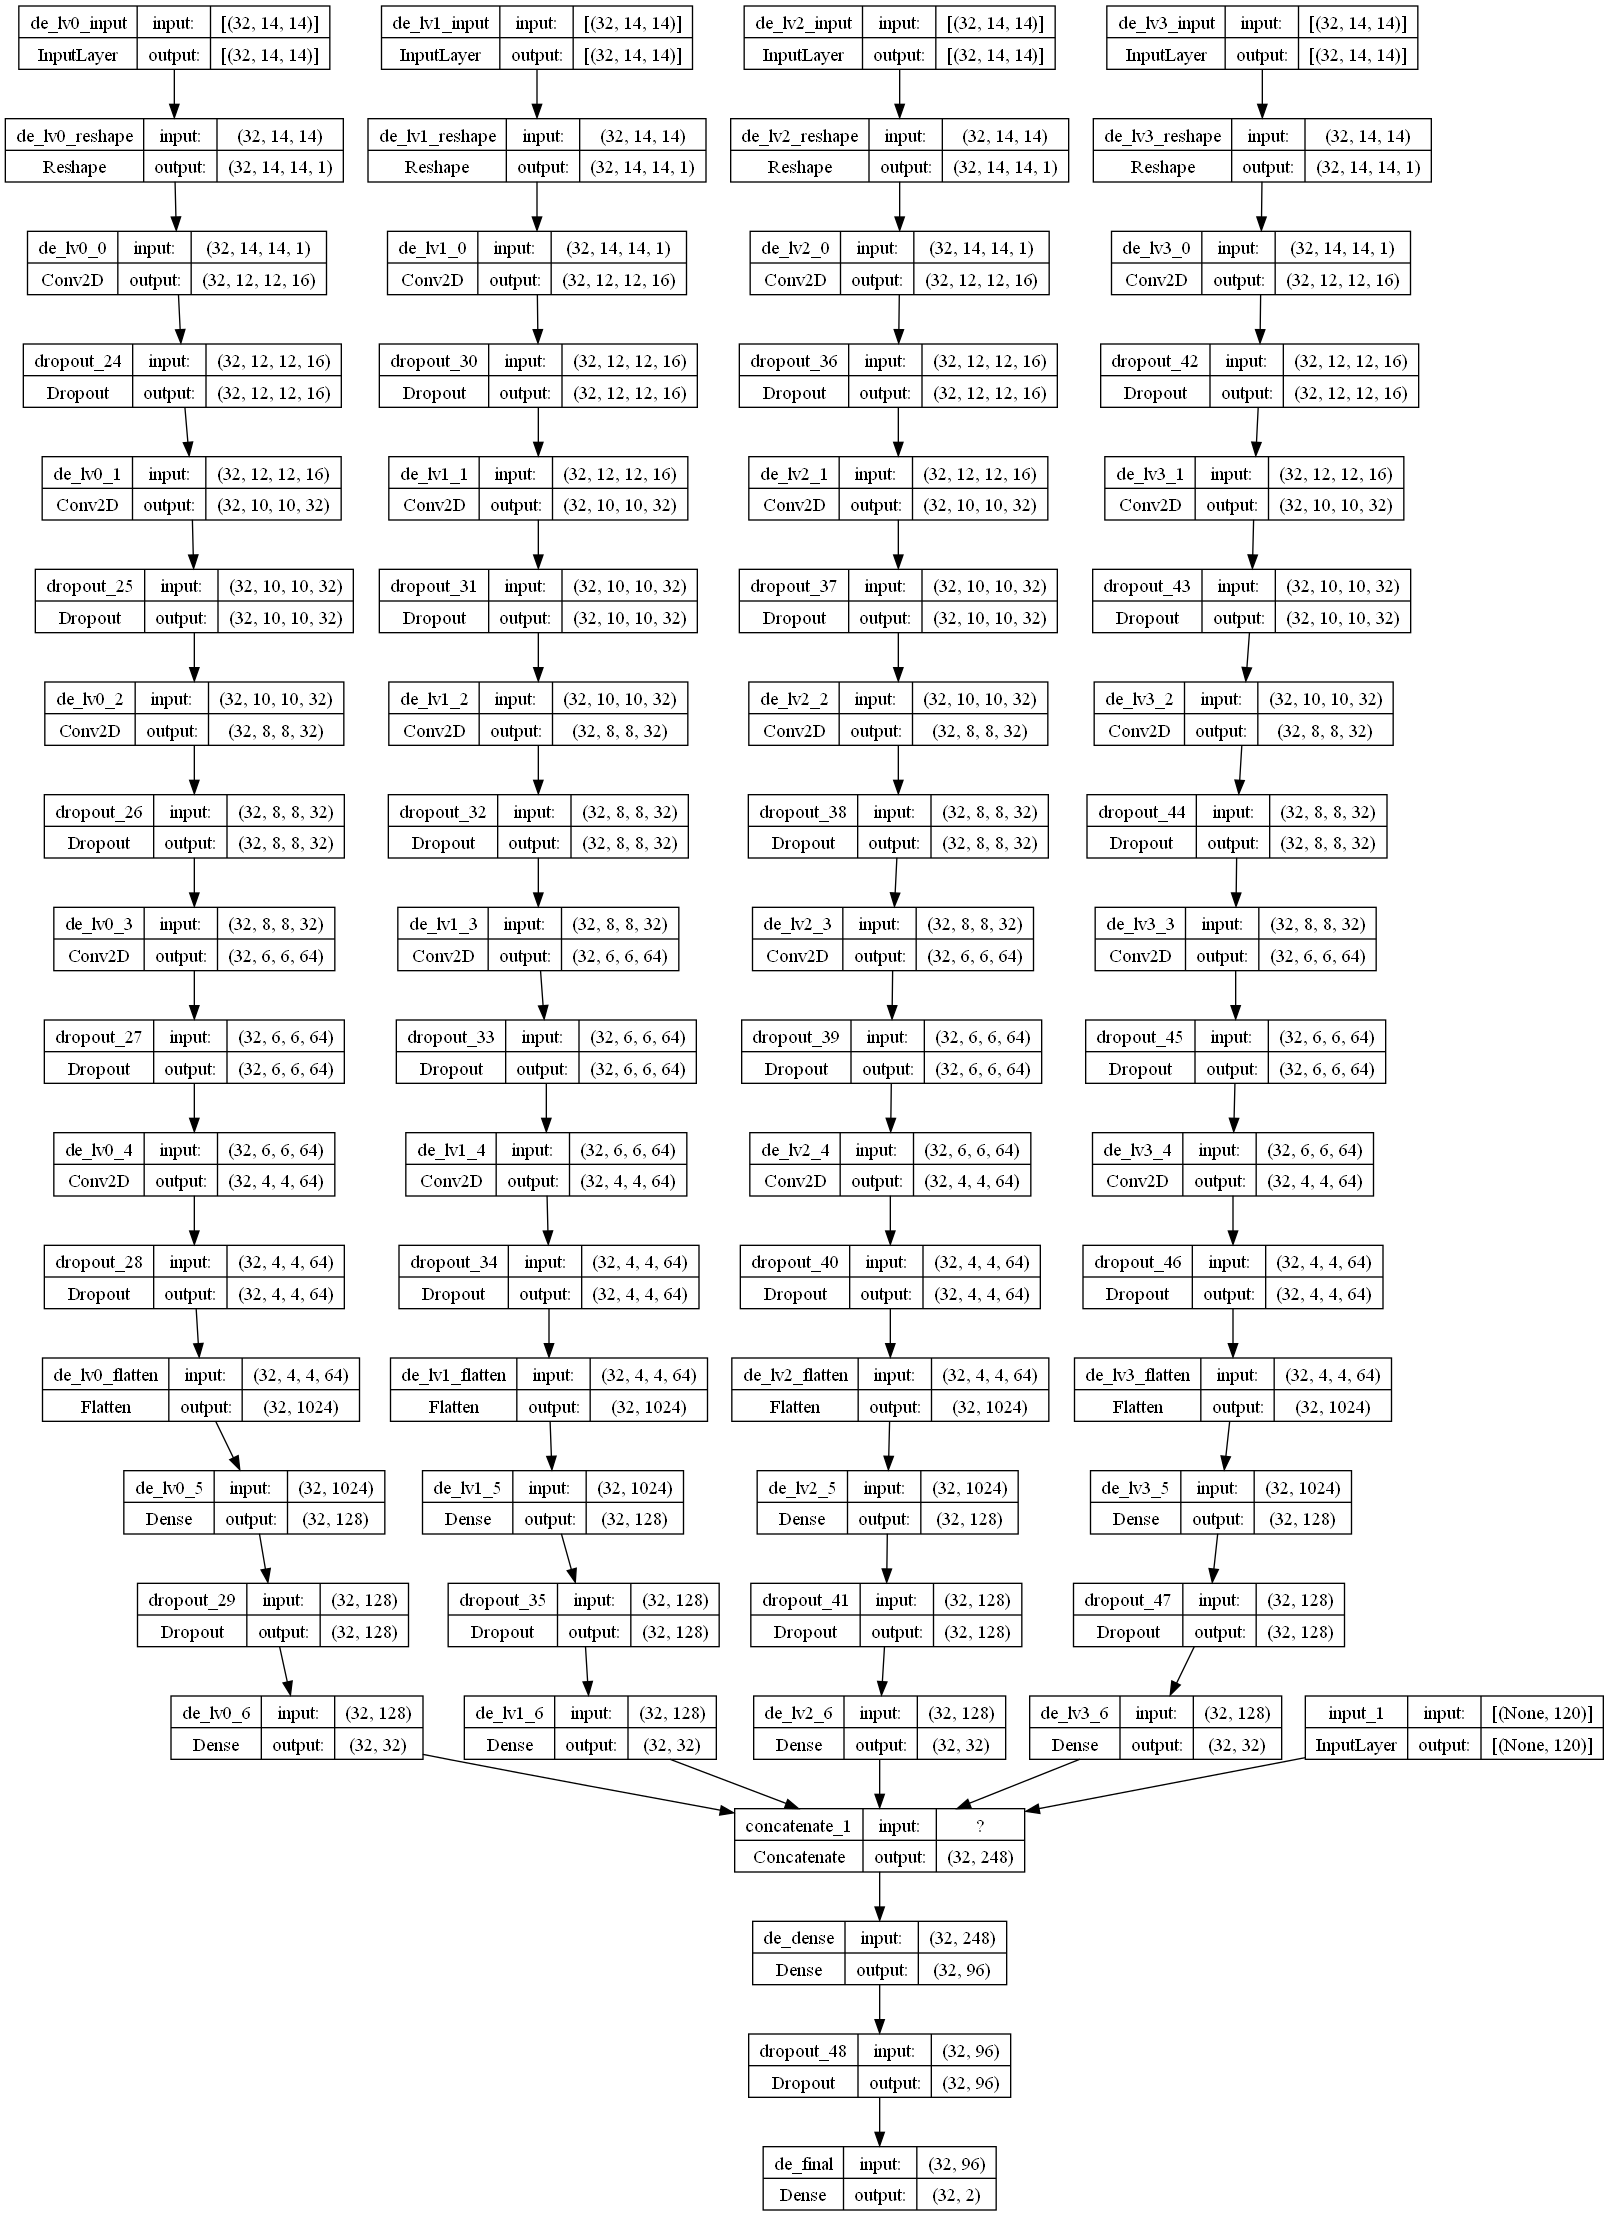
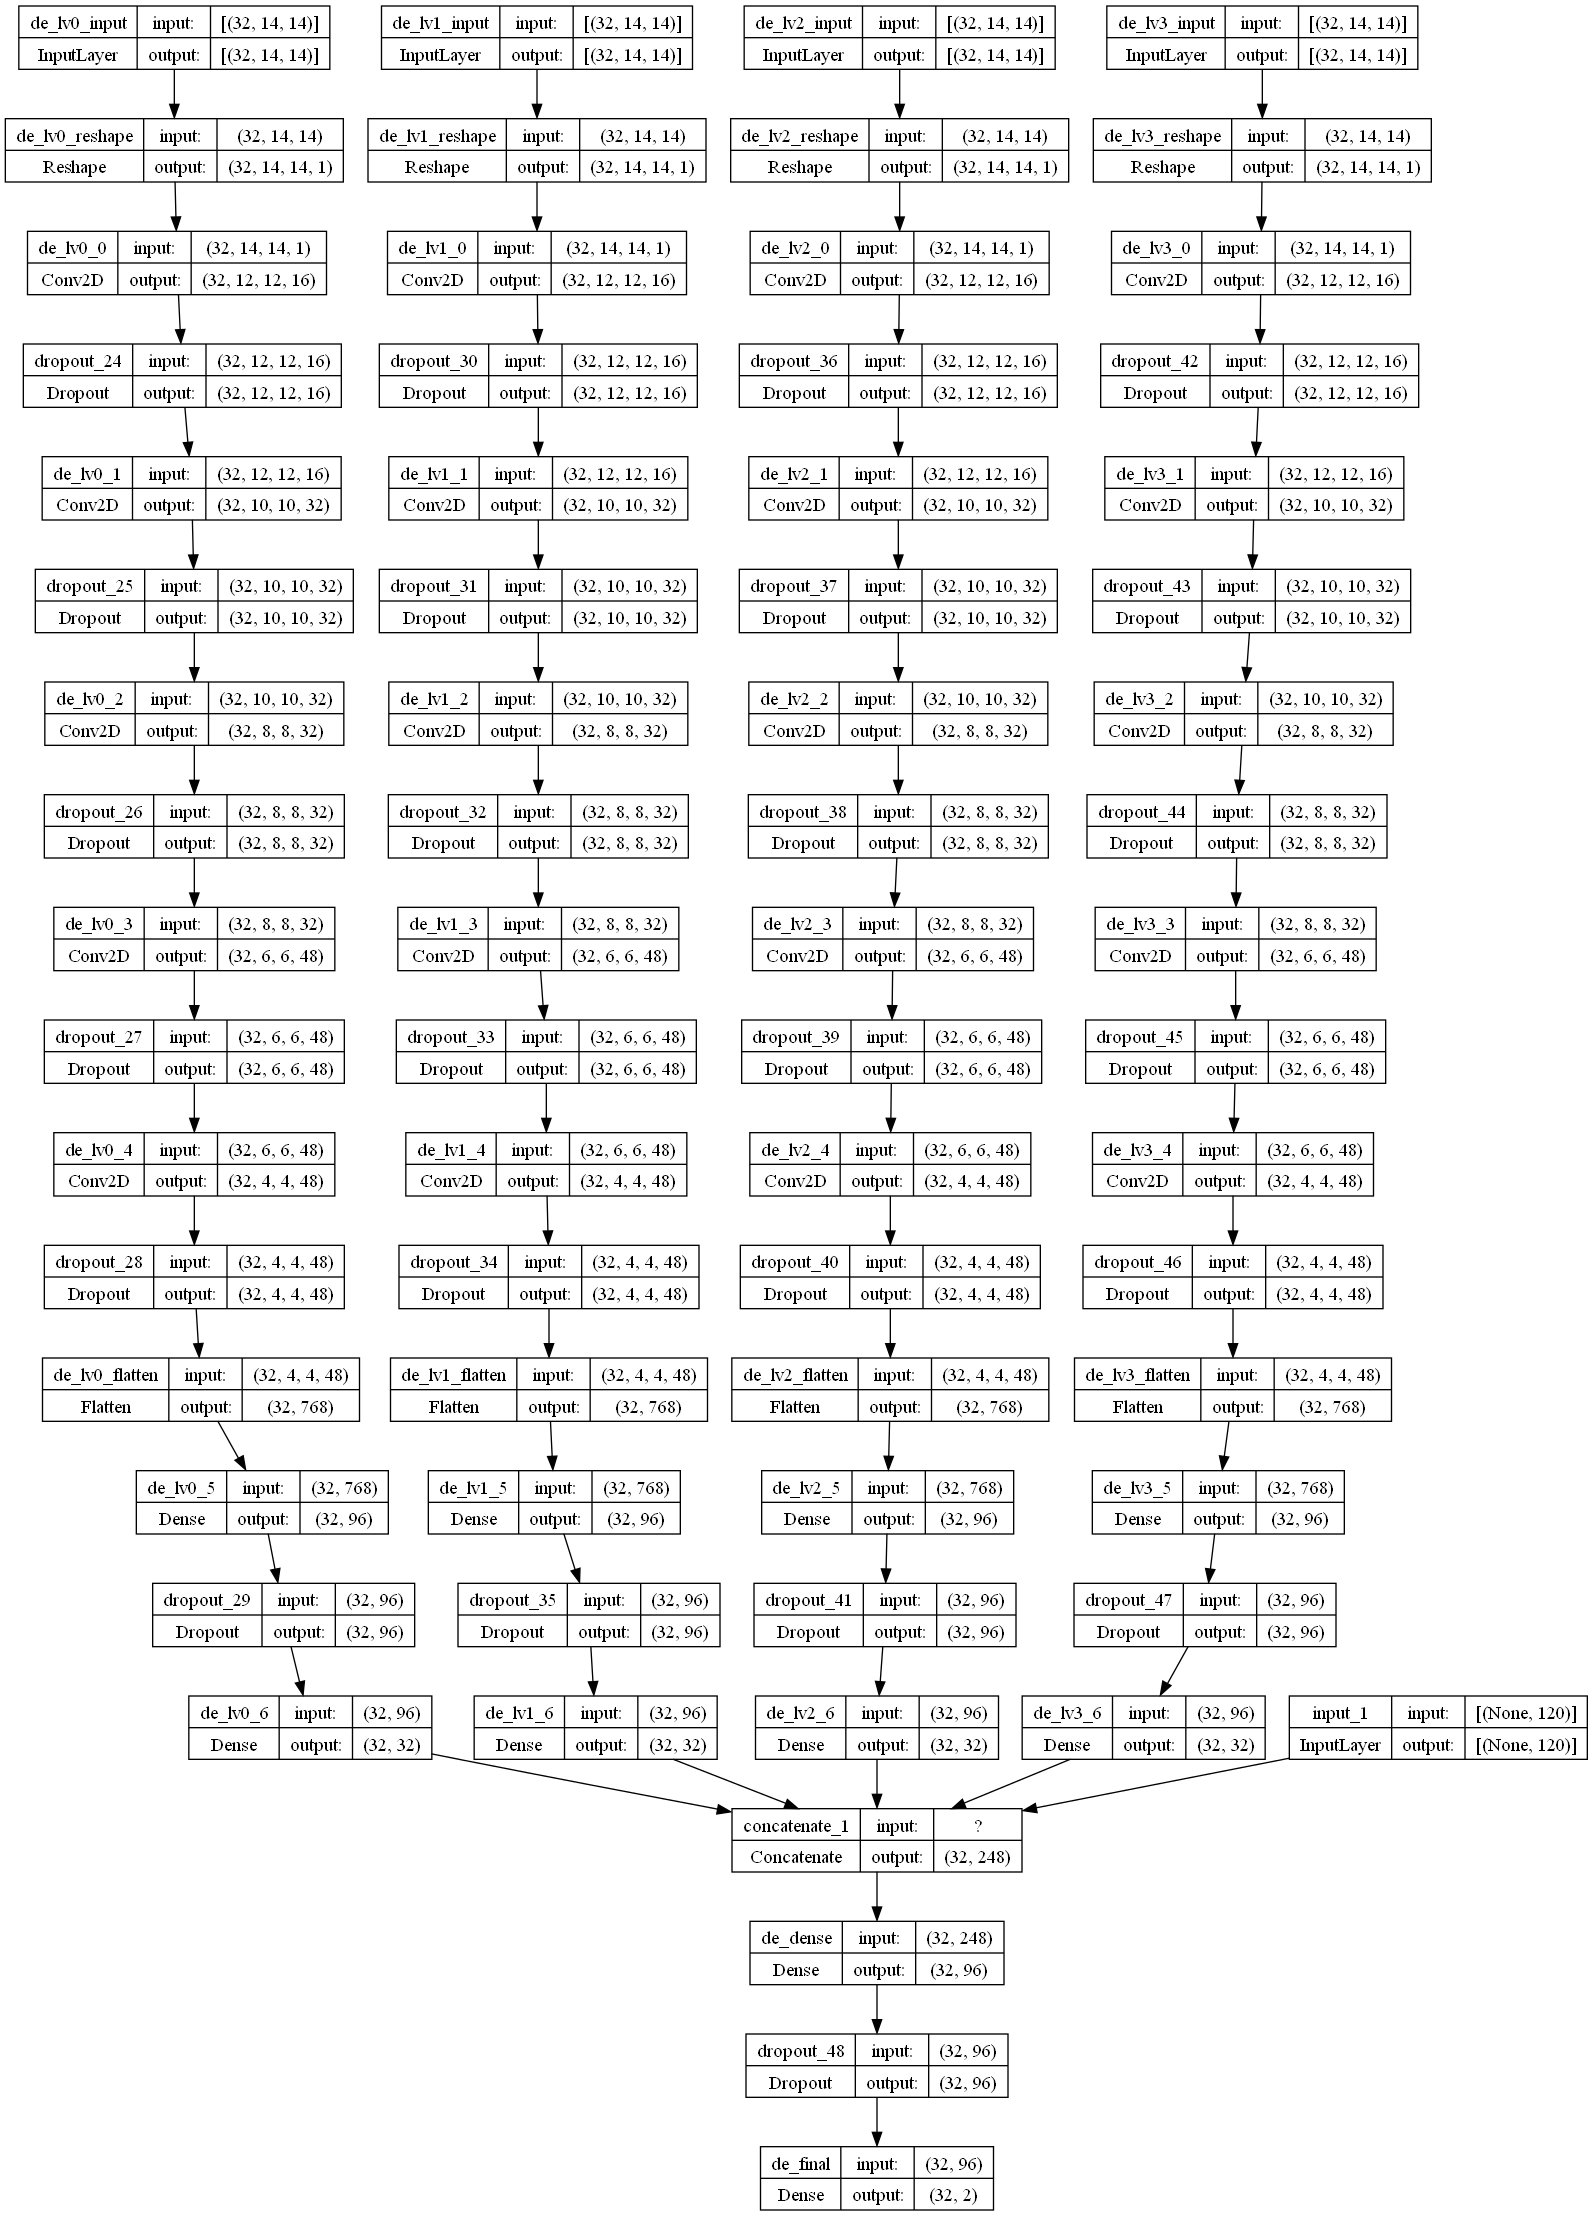
test: add Gaussian blur to test image

Changed region(s): [[0.0308, 0.0, 0.892, 0.9964], [0.892, 0.7473, 0.9228, 0.8096], [0.0308, 0.0623, 0.0615, 0.0934]]

diff --git a/Image Processing/Project 003. 흑백 이미지 컬러화 (생성형 AI 적용)/train.py b/Image Processing/Project 003. 흑백 이미지 컬러화 (생성형 AI 적용)/train.py
@@ -57,40 +57,40 @@ class Main_Model:
         self.encoder_lvl0_0 = layers.Conv2D(16, (3, 3), activation='relu', kernel_regularizer=L2, name='en_lv0_0')
         self.encoder_lvl0_1 = layers.Conv2D(32, (3, 3), activation='relu', kernel_regularizer=L2, name='en_lv0_1')
         self.encoder_lvl0_2 = layers.Conv2D(32, (3, 3), activation='relu', kernel_regularizer=L2, name='en_lv0_2')
-        self.encoder_lvl0_3 = layers.Conv2D(64, (3, 3), activation='relu', kernel_regularizer=L2, name='en_lv0_3')
-        self.encoder_lvl0_4 = layers.Conv2D(64, (3, 3), activation='relu', kernel_regularizer=L2, name='en_lv0_4')
+        self.encoder_lvl0_3 = layers.Conv2D(48, (3, 3), activation='relu', kernel_regularizer=L2, name='en_lv0_3')
+        self.encoder_lvl0_4 = layers.Conv2D(48, (3, 3), activation='relu', kernel_regularizer=L2, name='en_lv0_4')
 
-        self.encoder_lvl0_5 = layers.Dense(128, activation='relu', name='en_lv0_5')
+        self.encoder_lvl0_5 = layers.Dense(96, activation='relu', name='en_lv0_5')
         self.encoder_lvl0_6 = layers.Dense(32, activation='relu', name='en_lv0_6')
         
         # level 1 : 주변 56 x 56 영역 (상하좌우 +24 pixels)
         self.encoder_lvl1_0 = layers.Conv2D(16, (3, 3), activation='relu', kernel_regularizer=L2, name='en_lv1_0')
         self.encoder_lvl1_1 = layers.Conv2D(32, (3, 3), activation='relu', kernel_regularizer=L2, name='en_lv1_1')
         self.encoder_lvl1_2 = layers.Conv2D(32, (3, 3), activation='relu', kernel_regularizer=L2, name='en_lv1_2')
-        self.encoder_lvl1_3 = layers.Conv2D(64, (3, 3), activation='relu', kernel_regularizer=L2, name='en_lv1_3')
-        self.encoder_lvl1_4 = layers.Conv2D(64, (3, 3), activation='relu', kernel_regularizer=L2, name='en_lv1_4')
+        self.encoder_lvl1_3 = layers.Conv2D(48, (3, 3), activation='relu', kernel_regularizer=L2, name='en_lv1_3')
+        self.encoder_lvl1_4 = layers.Conv2D(48, (3, 3), activation='relu', kernel_regularizer=L2, name='en_lv1_4')
 
-        self.encoder_lvl1_5 = layers.Dense(128, activation='relu', name='en_lv1_5')
+        self.encoder_lvl1_5 = layers.Dense(96, activation='relu', name='en_lv1_5')
         self.encoder_lvl1_6 = layers.Dense(32, activation='relu', name='en_lv1_6')
 
         # level 2 : 주변 28 x 28 영역 (상하좌우 +10 pixels)
         self.encoder_lvl2_0 = layers.Conv2D(16, (3, 3), activation='relu', kernel_regularizer=L2, name='en_lv2_0')
         self.encoder_lvl2_1 = layers.Conv2D(32, (3, 3), activation='relu', kernel_regularizer=L2, name='en_lv2_1')
         self.encoder_lvl2_2 = layers.Conv2D(32, (3, 3), activation='relu', kernel_regularizer=L2, name='en_lv2_2')
-        self.encoder_lvl2_3 = layers.Conv2D(64, (3, 3), activation='relu', kernel_regularizer=L2, name='en_lv2_3')
-        self.encoder_lvl2_4 = layers.Conv2D(64, (3, 3), activation='relu', kernel_regularizer=L2, name='en_lv2_4')
+        self.encoder_lvl2_3 = layers.Conv2D(48, (3, 3), activation='relu', kernel_regularizer=L2, name='en_lv2_3')
+        self.encoder_lvl2_4 = layers.Conv2D(48, (3, 3), activation='relu', kernel_regularizer=L2, name='en_lv2_4')
 
-        self.encoder_lvl2_5 = layers.Dense(128, activation='relu', name='en_lv2_5')
+        self.encoder_lvl2_5 = layers.Dense(96, activation='relu', name='en_lv2_5')
         self.encoder_lvl2_6 = layers.Dense(32, activation='relu', name='en_lv2_6')
 
         # level 3 : 주변 14 x 14 영역 (상하좌우 +3 pixels)
         self.encoder_lvl3_0 = layers.Conv2D(16, (3, 3), activation='relu', kernel_regularizer=L2, name='en_lv3_0')
         self.encoder_lvl3_1 = layers.Conv2D(32, (3, 3), activation='relu', kernel_regularizer=L2, name='en_lv3_1')
         self.encoder_lvl3_2 = layers.Conv2D(32, (3, 3), activation='relu', kernel_regularizer=L2, name='en_lv3_2')
-        self.encoder_lvl3_3 = layers.Conv2D(64, (3, 3), activation='relu', kernel_regularizer=L2, name='en_lv3_3')
-        self.encoder_lvl3_4 = layers.Conv2D(64, (3, 3), activation='relu', kernel_regularizer=L2, name='en_lv3_4')
+        self.encoder_lvl3_3 = layers.Conv2D(48, (3, 3), activation='relu', kernel_regularizer=L2, name='en_lv3_3')
+        self.encoder_lvl3_4 = layers.Conv2D(48, (3, 3), activation='relu', kernel_regularizer=L2, name='en_lv3_4')
 
-        self.encoder_lvl3_5 = layers.Dense(128, activation='relu', name='en_lv3_5')
+        self.encoder_lvl3_5 = layers.Dense(96, activation='relu', name='en_lv3_5')
         self.encoder_lvl3_6 = layers.Dense(32, activation='relu', name='en_lv3_6')
         
         self.encoder_final_dense = layers.Dense(64, activation='relu', name='en_final')
@@ -100,40 +100,40 @@ class Main_Model:
         self.decoder_lvl0_0 = layers.Conv2D(16, (3, 3), activation='relu', kernel_regularizer=L2, name='de_lv0_0')
         self.decoder_lvl0_1 = layers.Conv2D(32, (3, 3), activation='relu', kernel_regularizer=L2, name='de_lv0_1')
         self.decoder_lvl0_2 = layers.Conv2D(32, (3, 3), activation='relu', kernel_regularizer=L2, name='de_lv0_2')
-        self.decoder_lvl0_3 = layers.Conv2D(64, (3, 3), activation='relu', kernel_regularizer=L2, name='de_lv0_3')
-        self.decoder_lvl0_4 = layers.Conv2D(64, (3, 3), activation='relu', kernel_regularizer=L2, name='de_lv0_4')
+        self.decoder_lvl0_3 = layers.Conv2D(48, (3, 3), activation='relu', kernel_regularizer=L2, name='de_lv0_3')
+        self.decoder_lvl0_4 = layers.Conv2D(48, (3, 3), activation='relu', kernel_regularizer=L2, name='de_lv0_4')
 
-        self.decoder_lvl0_5 = layers.Dense(128, activation='relu', name='de_lv0_5')
+        self.decoder_lvl0_5 = layers.Dense(96, activation='relu', name='de_lv0_5')
         self.decoder_lvl0_6 = layers.Dense(32, activation='relu', name='de_lv0_6')
         
         # level 1 : 주변 56 x 56 영역 (상하좌우 +24 pixels)
         self.decoder_lvl1_0 = layers.Conv2D(16, (3, 3), activation='relu', kernel_regularizer=L2, name='de_lv1_0')
         self.decoder_lvl1_1 = layers.Conv2D(32, (3, 3), activation='relu', kernel_regularizer=L2, name='de_lv1_1')
         self.decoder_lvl1_2 = layers.Conv2D(32, (3, 3), activation='relu', kernel_regularizer=L2, name='de_lv1_2')
-        self.decoder_lvl1_3 = layers.Conv2D(64, (3, 3), activation='relu', kernel_regularizer=L2, name='de_lv1_3')
-        self.decoder_lvl1_4 = layers.Conv2D(64, (3, 3), activation='relu', kernel_regularizer=L2, name='de_lv1_4')
+        self.decoder_lvl1_3 = layers.Conv2D(48, (3, 3), activation='relu', kernel_regularizer=L2, name='de_lv1_3')
+        self.decoder_lvl1_4 = layers.Conv2D(48, (3, 3), activation='relu', kernel_regularizer=L2, name='de_lv1_4')
 
-        self.decoder_lvl1_5 = layers.Dense(128, activation='relu', name='de_lv1_5')
+        self.decoder_lvl1_5 = layers.Dense(96, activation='relu', name='de_lv1_5')
         self.decoder_lvl1_6 = layers.Dense(32, activation='relu', name='de_lv1_6')
 
         # level 2 : 주변 28 x 28 영역 (상하좌우 +10 pixels)
         self.decoder_lvl2_0 = layers.Conv2D(16, (3, 3), activation='relu', kernel_regularizer=L2, name='de_lv2_0')
         self.decoder_lvl2_1 = layers.Conv2D(32, (3, 3), activation='relu', kernel_regularizer=L2, name='de_lv2_1')
         self.decoder_lvl2_2 = layers.Conv2D(32, (3, 3), activation='relu', kernel_regularizer=L2, name='de_lv2_2')
-        self.decoder_lvl2_3 = layers.Conv2D(64, (3, 3), activation='relu', kernel_regularizer=L2, name='de_lv2_3')
-        self.decoder_lvl2_4 = layers.Conv2D(64, (3, 3), activation='relu', kernel_regularizer=L2, name='de_lv2_4')
+        self.decoder_lvl2_3 = layers.Conv2D(48, (3, 3), activation='relu', kernel_regularizer=L2, name='de_lv2_3')
+        self.decoder_lvl2_4 = layers.Conv2D(48, (3, 3), activation='relu', kernel_regularizer=L2, name='de_lv2_4')
 
-        self.decoder_lvl2_5 = layers.Dense(128, activation='relu', name='de_lv2_5')
+        self.decoder_lvl2_5 = layers.Dense(96, activation='relu', name='de_lv2_5')
         self.decoder_lvl2_6 = layers.Dense(32, activation='relu', name='de_lv2_6')
 
         # level 3 : 주변 14 x 14 영역 (상하좌우 +3 pixels)
         self.decoder_lvl3_0 = layers.Conv2D(16, (3, 3), activation='relu', kernel_regularizer=L2, name='de_lv3_0')
         self.decoder_lvl3_1 = layers.Conv2D(32, (3, 3), activation='relu', kernel_regularizer=L2, name='de_lv3_1')
         self.decoder_lvl3_2 = layers.Conv2D(32, (3, 3), activation='relu', kernel_regularizer=L2, name='de_lv3_2')
-        self.decoder_lvl3_3 = layers.Conv2D(64, (3, 3), activation='relu', kernel_regularizer=L2, name='de_lv3_3')
-        self.decoder_lvl3_4 = layers.Conv2D(64, (3, 3), activation='relu', kernel_regularizer=L2, name='de_lv3_4')
+        self.decoder_lvl3_3 = layers.Conv2D(48, (3, 3), activation='relu', kernel_regularizer=L2, name='de_lv3_3')
+        self.decoder_lvl3_4 = layers.Conv2D(48, (3, 3), activation='relu', kernel_regularizer=L2, name='de_lv3_4')
 
-        self.decoder_lvl3_5 = layers.Dense(128, activation='relu', name='de_lv3_5')
+        self.decoder_lvl3_5 = layers.Dense(96, activation='relu', name='de_lv3_5')
         self.decoder_lvl3_6 = layers.Dense(32, activation='relu', name='de_lv3_6')
 
         # latent vector (120) 과 결합하여 (120 + 32 + 32 + 32 + 32 = 248) 으로 만들기!
@@ -595,7 +595,7 @@ def train_model(train_input_lv0, train_input_lv1, train_input_lv2, train_input_l
             train_input_lv0_for_model, train_input_lv1_for_model, train_input_lv2_for_model, train_input_lv3_for_model
         ],
         train_all_coords_,
-        epochs=3, # 1 for functionality test, 20 for regular training
+        epochs=12, # 1 for functionality test, 20 for regular training
         batch_size=BATCH_SIZE,
         shuffle=True
     )
@@ -625,7 +625,7 @@ if __name__ == '__main__':
     create_input_convert_test_result_dir()
 
     # 학습 데이터 추출 (이미지의 greyscale 이미지 + 색상, 채도 부분)
-    train_input_lv0, train_input_lv1, train_input_lv2, train_input_lv3, train_x_coord, train_y_coord = create_train_and_valid_data(limit=100) # 30 for functionality test
+    train_input_lv0, train_input_lv1, train_input_lv2, train_input_lv3, train_x_coord, train_y_coord = create_train_and_valid_data(limit=None) # 30 for functionality test
     
     print(f'\nshape of train input lv0: {np.shape(train_input_lv0)}, first image :')
     print(train_input_lv0[0])

diff --git a/Image Processing/Project 003. 흑백 이미지 컬러화 (생성형 AI 적용)/test.py b/Image Processing/Project 003. 흑백 이미지 컬러화 (생성형 AI 적용)/test.py
@@ -100,6 +100,11 @@ def restore_final_image(hsv_array, img_size):
     return final_image
 
 
+# add gaussian blur
+def add_gaussian_blur(image_2d):
+    return cv2.GaussianBlur(image_2d, ksize=(0, 0), sigmaX=3, sigmaY=3)
+
+
 # 최종 테스트 이미지 생성
 def generate_test_result_image(image, coord_x, coord_y, img_name):
     print(f'\nimage name : {img_name}')
@@ -113,6 +118,13 @@ def generate_test_result_image(image, coord_x, coord_y, img_name):
     hsv_array = create_hsv_image(image, coord_x, coord_y, img_size=RESIZE_WIDTH)
 
     print('\n ==== HSV ====')
+    print(hsv_array)
+
+    # add gaussian blur
+    hsv_array[:, :, 0] = add_gaussian_blur(hsv_array[:, :, 0]) # hue
+    hsv_array[:, :, 1] = add_gaussian_blur(hsv_array[:, :, 1]) # saturation
+
+    print('\n ==== HSV with Gaussian blur ====')
     print(hsv_array)
     
 #    final_image = cv2.cvtColor(hsv_array, cv2.COLOR_HSV2BGR)
